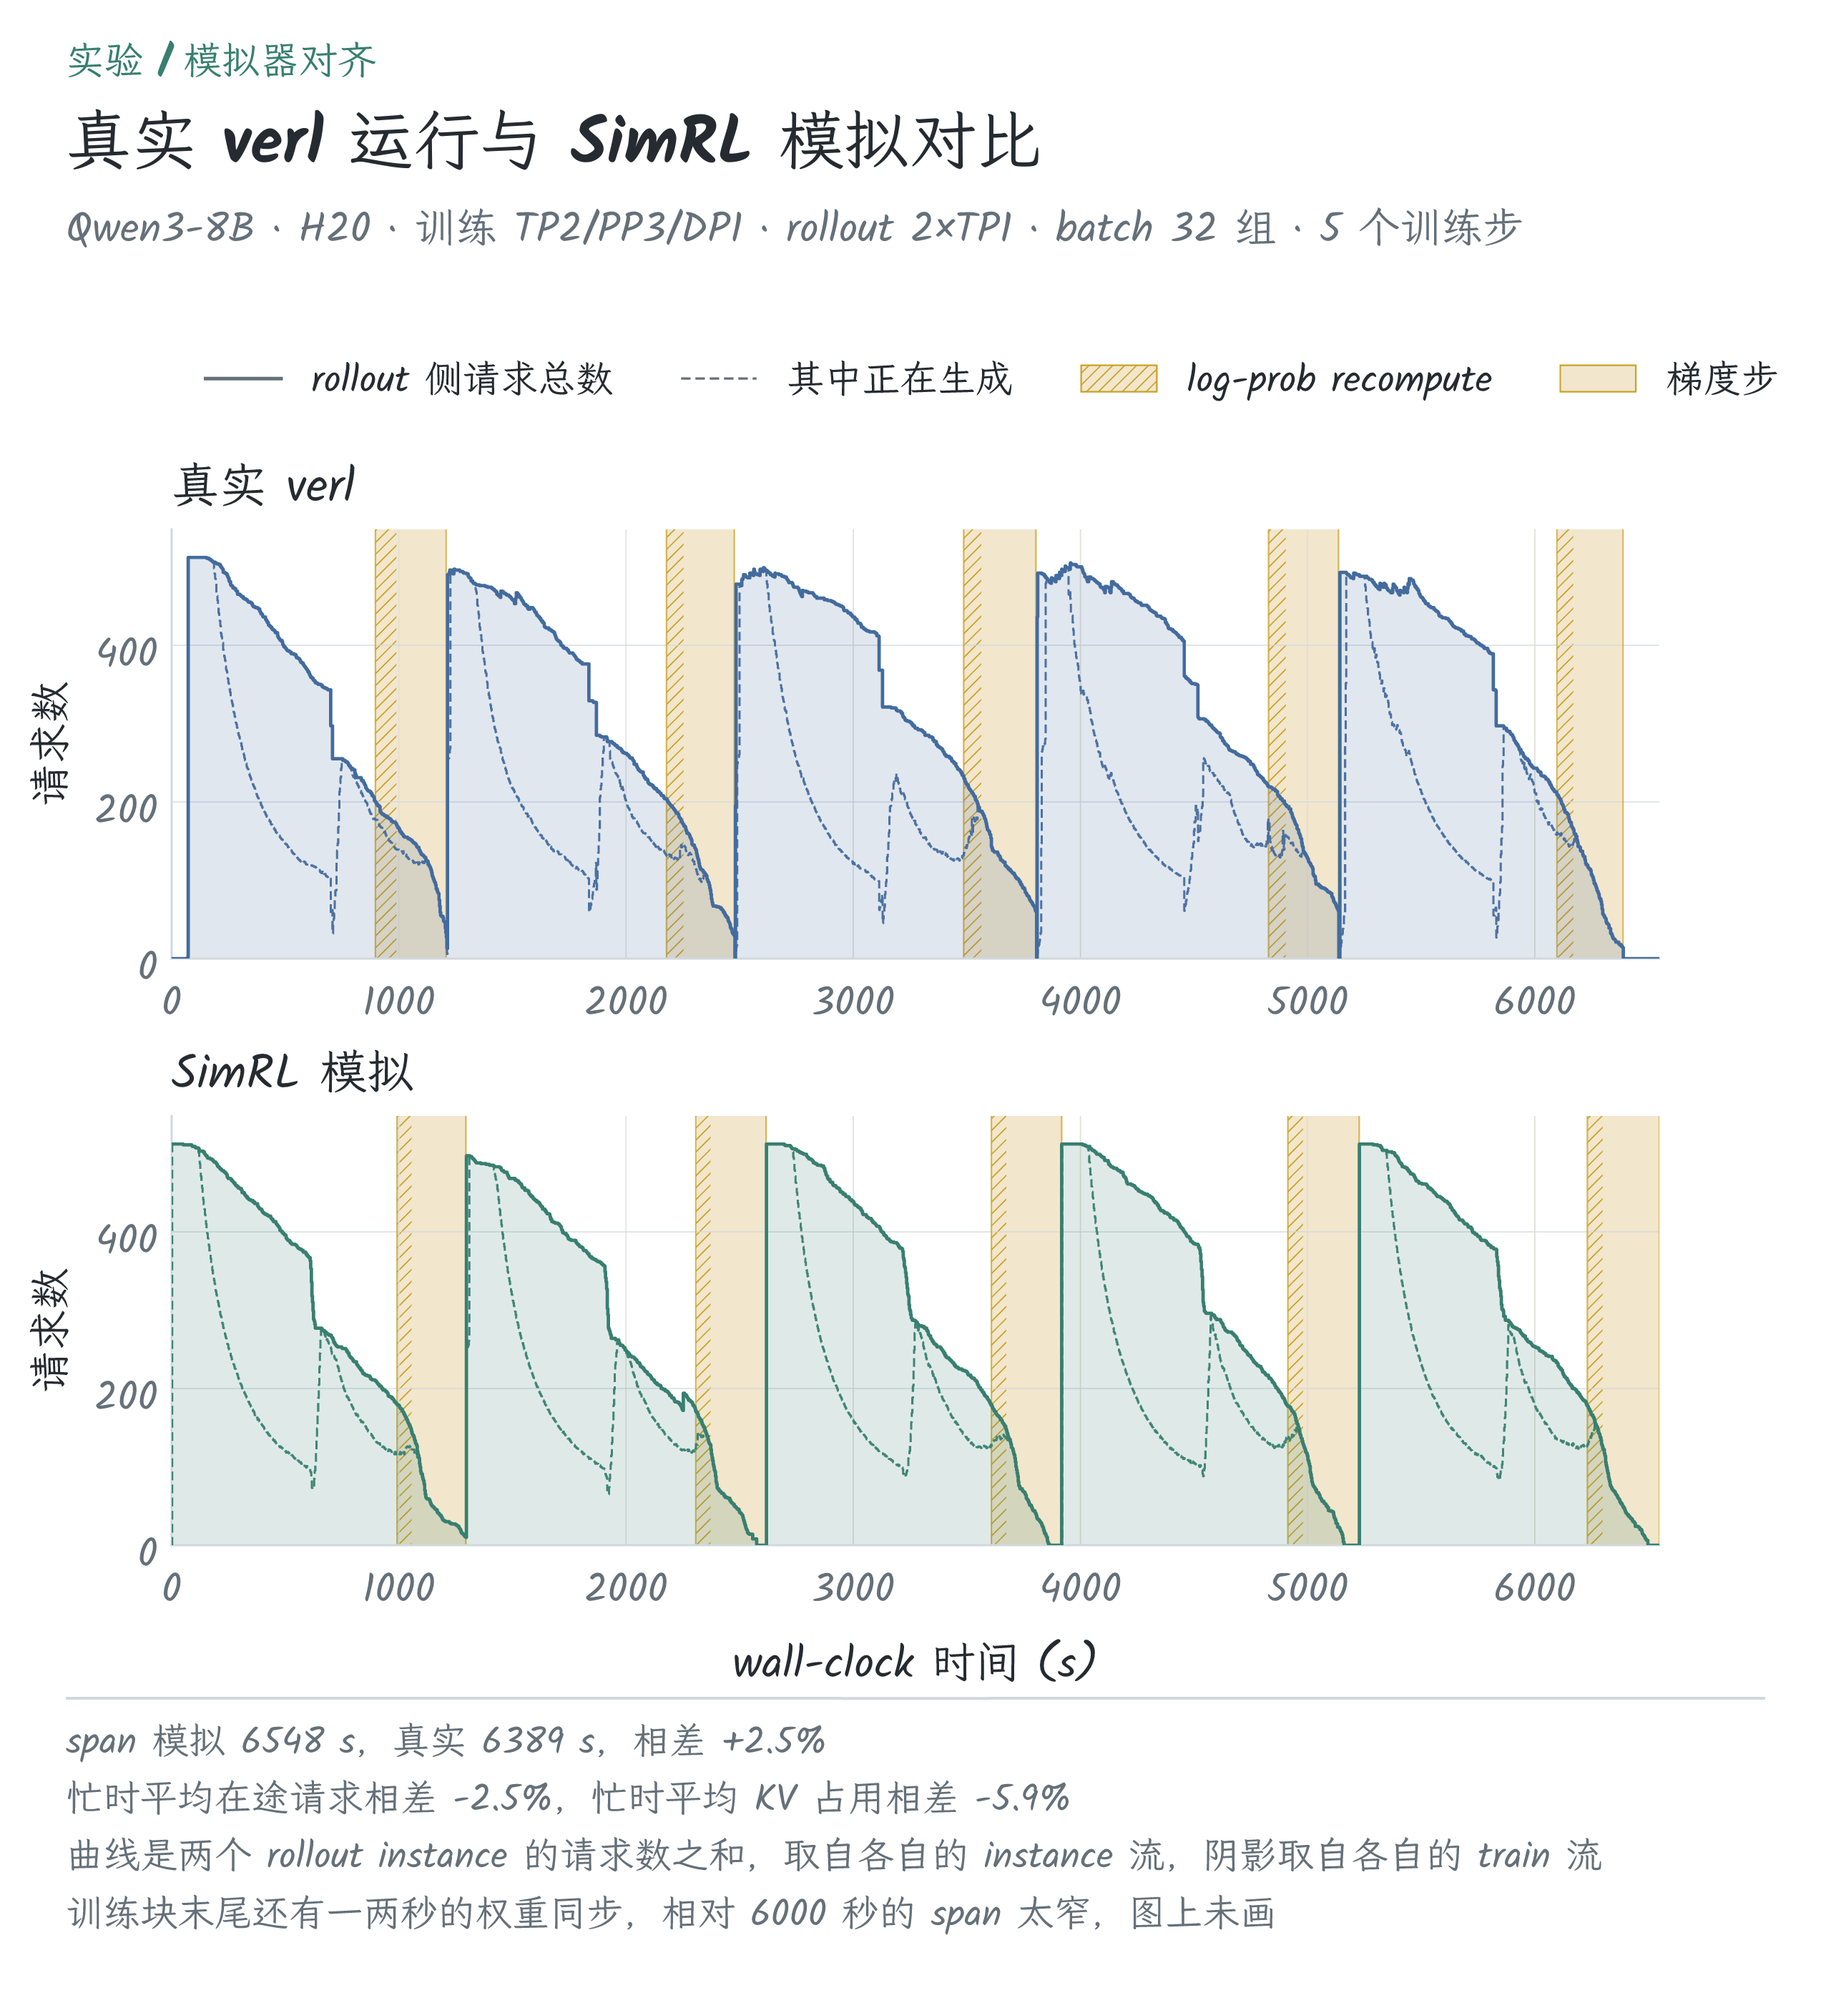
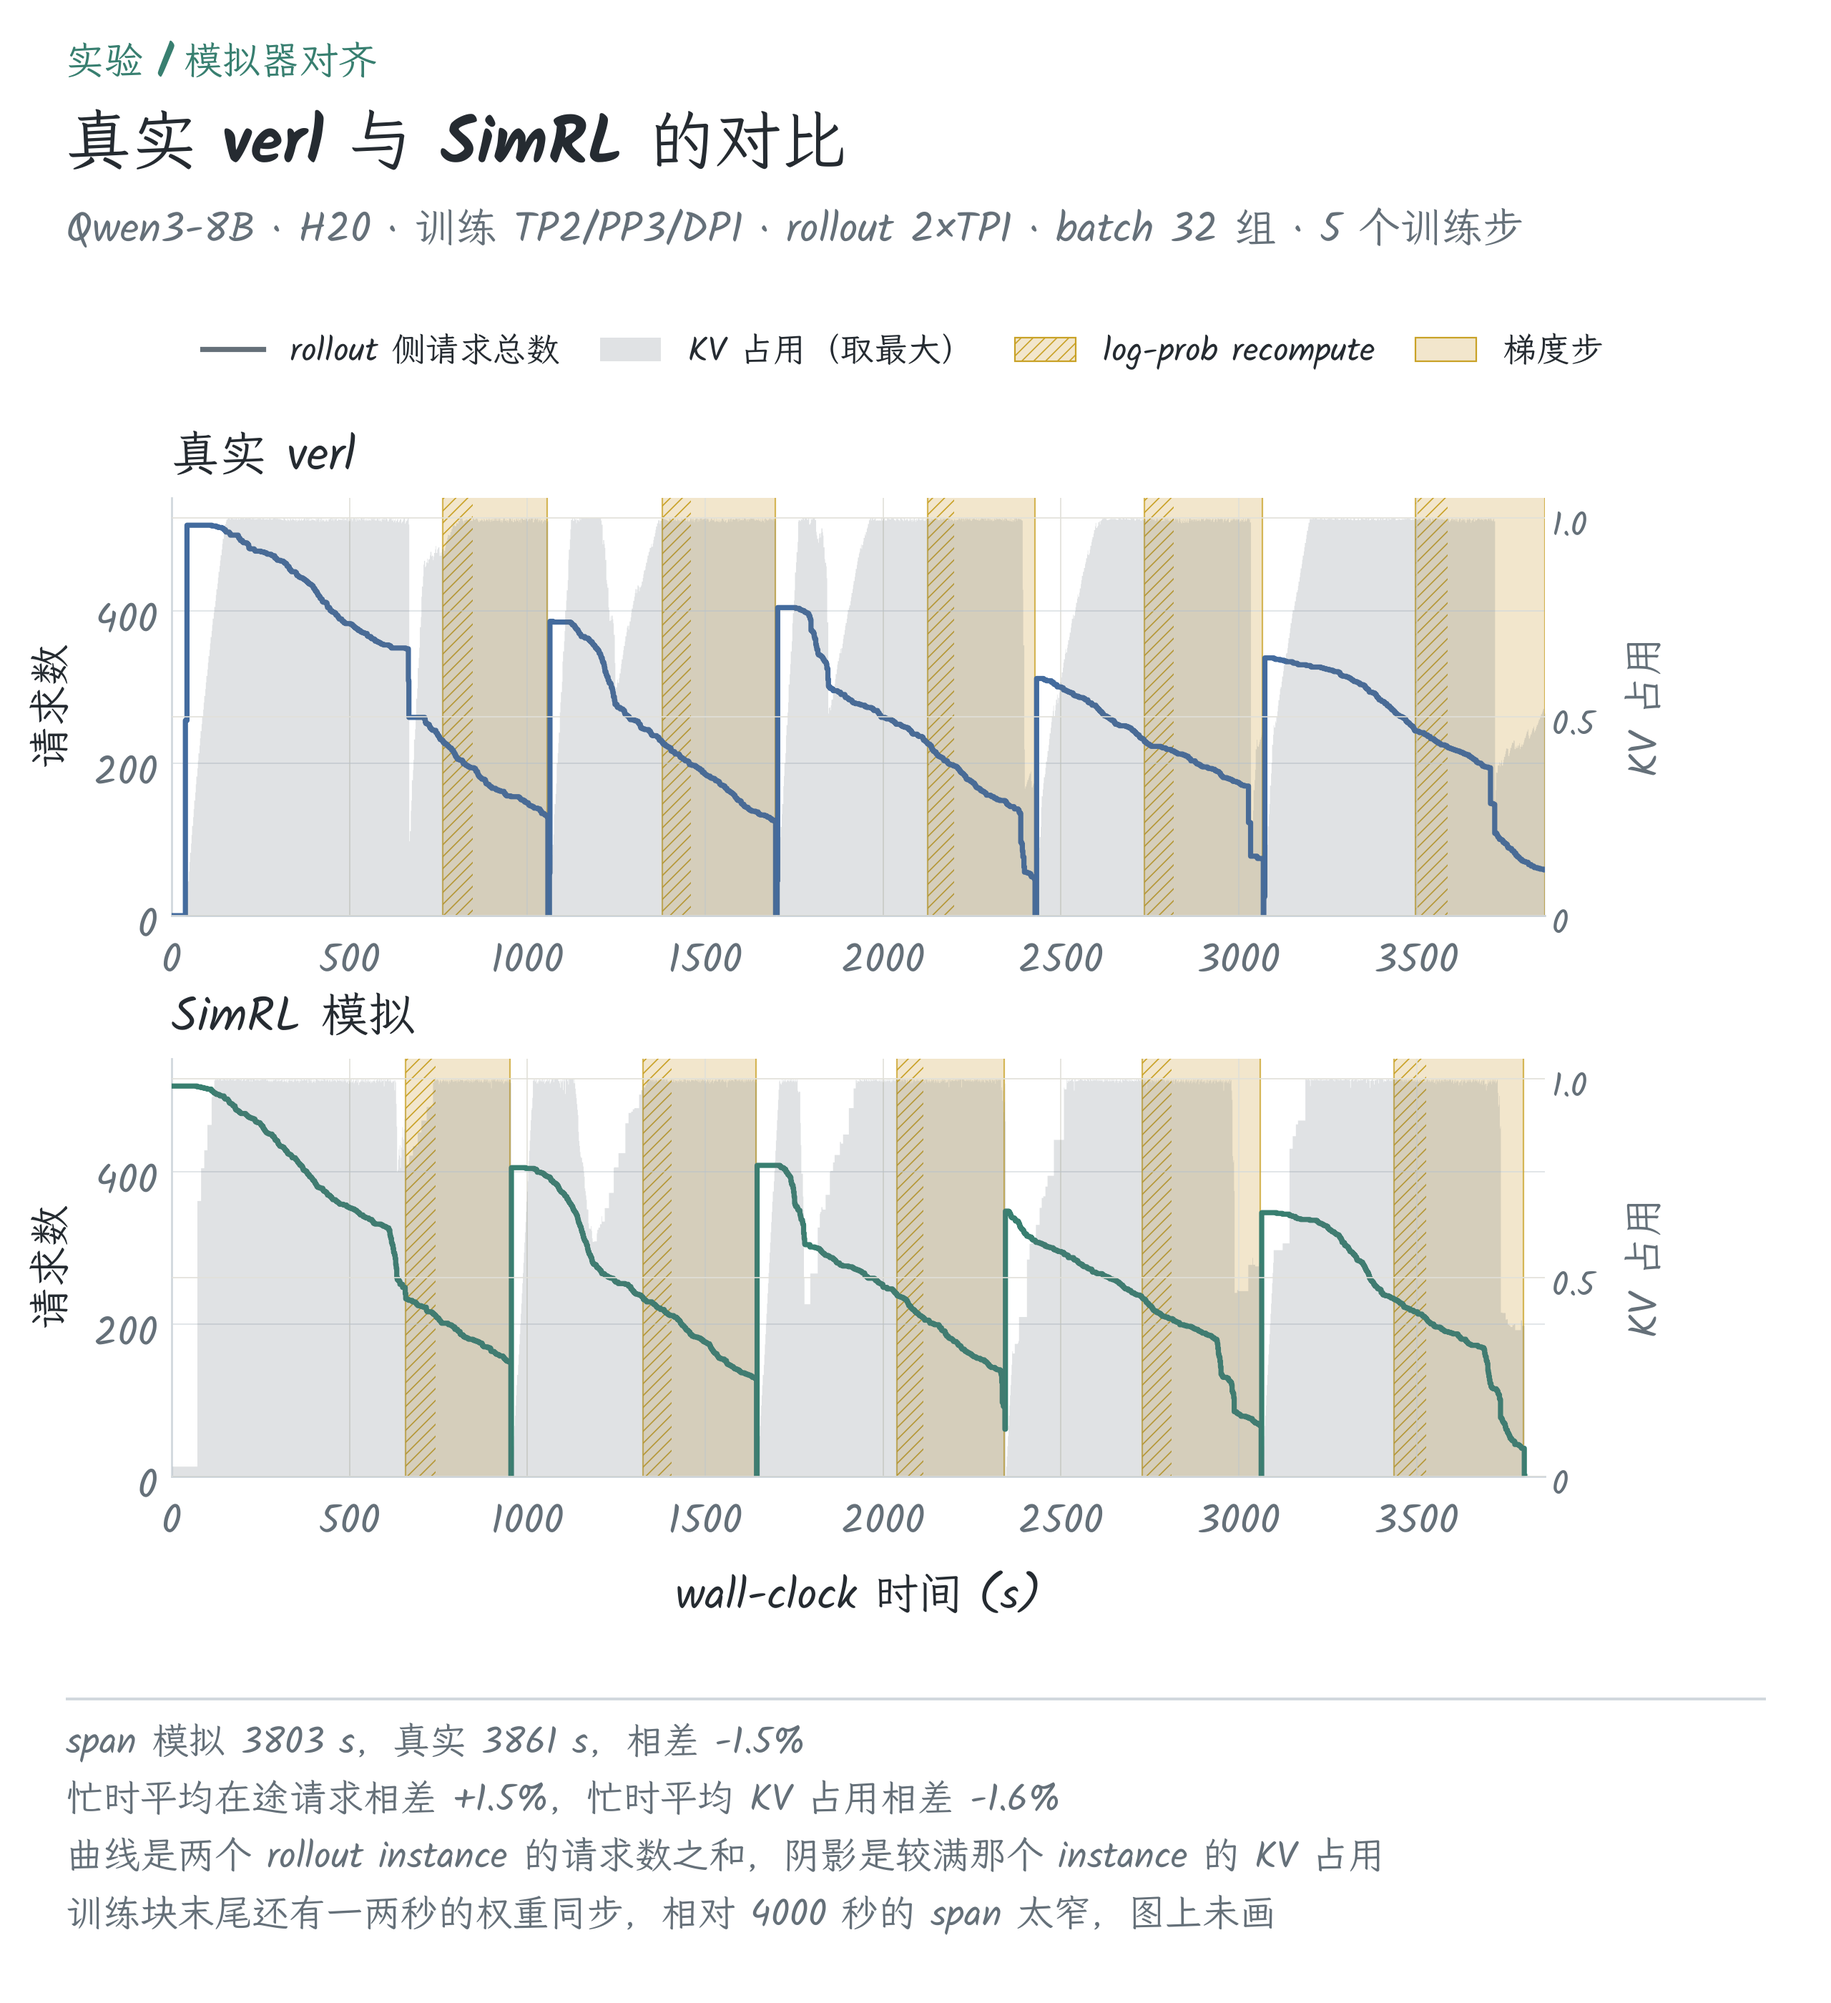
Sync revised staleness articles and latest SimRL comparison

diff --git a/_blog/async-rl-staleness.md b/_blog/async-rl-staleness.md
@@ -72,27 +72,29 @@ $$
 
 ![异步 RL 流水线上的 L1 准入控制、L2 Rollout 运行时控制和 L3 Training 前过滤]({{ '/assets/blog/async-rl-staleness-1/three-layer-control.svg' | relative_url }})
 
-#### L1：准入控制（Admission Control）
+**L1：准入控制（Admission Control）**
 
 prompt 还没开始生成时，系统要先决定是否准入。通过准入控制来实现 staleness 控制的想法很直观：准入量越大，同一时期就越可能出现更多低版本的 trajectory，它们参与训练时的 staleness 也可能越大。因此，有的框架会限制生成中的 trajectory 条数，有的还会把已经生成完成、尚未被训练取样的结果一起计数。达到上限后，就先暂停准入。准入何时恢复则取决于具体机制，例如生成完成、结果被训练侧取走，或训练版本推进后释放新的额度。
 
-这一层最为直接且成本最低，因为被拦住的 prompt 还没有消耗生成计算。但问题也最为明显：**只限制数量，并不意味着能够限制每条 trajectory 的 staleness。** 假设系统最多允许 $$8$$ 条 trajectory 同时生成，其中一条从 $$v_0$$ 开始后一直没有完成。与此同时，其余槽位不断生成较短的 trajectory，使训练侧能够持续组 batch 并将模型更新到 $$v_5$$。此时，长 trajectory 仍只占用一个槽位，没有违反并发上限，但若这条 trajectory 最终生成完成并参与 $$v_5$$ 的训练，其中由 $$v_0$$ 生成的 token 的 staleness 就会高达 $$5$$。
+这一层最为直接且成本最低，因为被拦住的 prompt 还没有消耗生成计算。但问题也最为明显：**只限制数量，并不意味着能够限制每条 trajectory 的 staleness。** 假设系统最多允许 $8$ 条 trajectory 同时生成，其中一条从 $v_0$ 开始后一直没有完成。与此同时，其余槽位不断生成较短的 trajectory，使训练侧能够持续组 batch 并将模型更新到 $v_5$。此时，长 trajectory 仍只占用一个槽位，没有违反准入上限，但若这条 trajectory 最终生成完成并参与 $v_5$ 的训练，其中由 $v_0$ 生成的 token 的 staleness 就会高达 $5$。
 
 因此，L1 层面的控制可以减少数据积压，但仅靠数量限制，无法保证每条 trajectory 的 staleness 都不超过阈值。
 
-#### L2：Rollout 运行时控制（Rollout Runtime Control）
+**L2：Rollout 运行时控制（Rollout Runtime Control）**
 
 准入后，trajectory 就开始生成了。系统可以在权重更新或同步等特定时机检查仍在生成的 trajectory，并取消那些已经不可能满足 staleness 上限的任务。具体检查时机、比较的版本以及取消条件取决于框架实现。
 
-例如，一条 trajectory 从 $$v_1$$ 开始生成，到 $$v_5$$ 仍未结束。若允许的最大 staleness 为 $$3$$，此时版本差已达 $$4$$，系统便可在本次版本推进时取消它，无需等其完整生成后再处理。取消越早，节省的后续计算越多。但无法避免的是，此前已生成的 token 会被浪费。
+例如，一条 trajectory 从 $v_1$ 开始生成，到 $v_5$ 仍未结束。若允许的最大 staleness 为 $3$，此时版本差已达 $4$，系统便可在本次版本推进时取消它，无需等其完整生成后再处理。取消越早，节省的后续计算越多。但无法避免的是，此前已生成的 token 会被浪费。
 
-仅增加 L2 层面的控制仍不够：trajectory 生成完成后仍可能排队，而 L2 无法覆盖这段排队等待时间。trajectory 可能通过 L2 检验，却在后续排队过程中最终超过 staleness 上限。
+仅增加 L2 层面的控制仍不够：**trajectory 生成完成后仍可能排队，而 L2 无法覆盖这段排队等待时间**。trajectory 可能通过 L2 检验，却在后续排队过程中最终超过 staleness 上限。
 
-#### L3：Training 前控制（Training Input Control）
+**L3：Training 前控制（Training Input Control）**
 
-生成完成后，trajectory 通常会在 queue 或 buffer 中等待训练侧取样。系统可以按 FIFO（先进先出）等策略选择结果，也可以在取样或组装 batch 时检查其版本信息。一方面，系统可以将超限的 trajectory 或 group 排除在训练 batch 之外。被排除后，框架可以继续取样以补齐 batch。另一方面，系统也可以选择停等，有目的地等待一些较旧版本的 group 完成，防止超限。
+生成完成后，trajectory 通常会在 queue/buffer 中等待训练侧取样。系统可以按 FIFO（先进先出）等策略选择结果，也可以在取样或组装 batch 时检查其版本信息。一方面，系统可以将超限的 trajectory 或 group 排除在训练 batch 之外。被排除后，框架可以重新取样以补齐 batch。另一方面，系统也可以选择停等，确保某一个较旧版本的数据全部完成，防止超限。
 
-**L3 最接近训练入口，也是实现严格 staleness 控制最直接的位置。** 到了这里，系统可按实际训练版本检查 trajectory，只让合格结果进入 batch。但是，在 L3 进行控制的代价也很明显：若此时选择丢弃，整条 trajectory 的生成计算便白费了。因此，L1 是否限制了过量准入、L2 是否提前终止了超限生成，都在一定程度上决定了 L3 会浪费多少。若大部分 trajectory 都能及时参与训练，L3 也可能很少触发丢弃。
+L3 最接近训练入口，也是**实现严格 staleness 控制最直接的位置**。到了这里，系统可按实际训练版本检查 trajectory，只让合格结果进入 batch，也可以暂停训练，等待指定的数据就绪。但是，在 L3 进行控制的代价也很明显：若此时选择丢弃，整条 trajectory 的生成计算便白费了。若选择等待，训练端就可能因少数长尾而停下来，即使其他结果已经生成完成，也未必能立即用来补位。
+
+因此，L1 能否限制过量准入、L2 能否提前终止超限生成，都会在一定程度上影响 L3：若 L1 准入控制得当，且 L2 能及时取消在途生成，则在 L3 开始训练前，更多数据可及时完成并满足 staleness 限制，从而减少 L3 因丢弃或停等产生的开销。
 
 ### 4. 不同框架的三层机制
 
